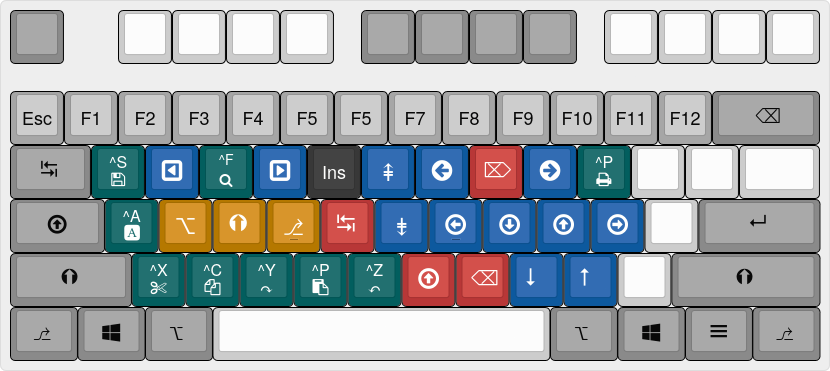
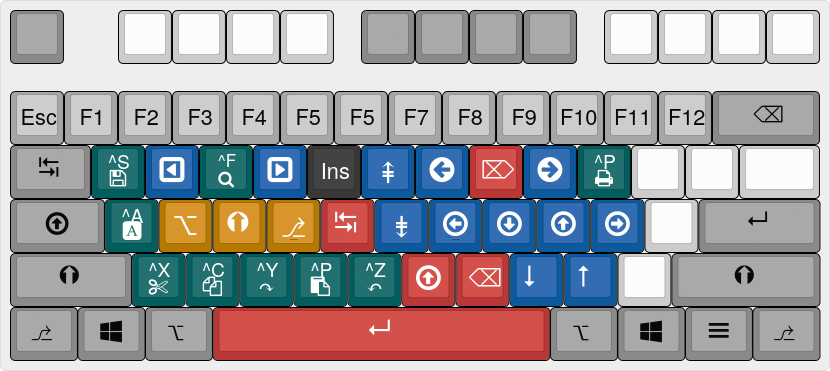
Extend layer: Map Enter to spacebar

diff --git a/README.md b/README.md
@@ -84,7 +84,7 @@ The image below showcases the Extend layer for ANSI 101/104-key keyboards.
 | :--- | :--- | :--- |
 | **Colour** | **Type** | **Comments** |
 | ![Extend layer navigation keys](Assets/Images/Keyboard_Layers/Extend_Layer_Navigation.png) | Navigation | Includes: <kbd>Back</kbd> <kbd>Forward</kbd> <kbd>PgUp</kbd> <kbd>PgDn</kbd> <kbd>Home</kbd> <kbd>End</kbd> <kbd>Left</kbd> <kbd>Down</kbd> <kbd>Up</kbd> <kbd>Right</kbd> <kbd>Mouse Wheel Scroll Down</kbd> <kbd>Mouse Wheel Scroll Up</kbd> |
-| ![Extend layer text manipulation keys](Assets/Images/Keyboard_Layers/Extend_Layer_Text_Manipulation.png) | Text Editing | Includes: <kbd>Delete</kbd> <kbd>Tab</kbd> <kbd>Caps Lock</kbd> <kbd>Backspace</kbd> |
+| ![Extend layer text manipulation keys](Assets/Images/Keyboard_Layers/Extend_Layer_Text_Manipulation.png) | Text Editing | Includes: <kbd>Delete</kbd> <kbd>Tab</kbd> <kbd>Caps Lock</kbd> <kbd>Backspace</kbd> <kbd>Enter</kbd> |
 | ![Extend layer text modifier keys](Assets/Images/Keyboard_Layers/Extend_Layer_Modifiers.png) | Modifiers | Includes: <kbd>Alt</kbd> <kbd>Shift</kbd> <kbd>Ctrl</kbd> |
 | ![Extend layer Ctrl shortcuts](Assets/Images/Keyboard_Layers/Extend_Layer_Ctrl_Shortcuts.png) | Ctrl Shortcuts | Includes: <kbd>Ctrl+S</kbd> save <kbd>Ctrl+F</kbd> find <kbd>Ctrl+P</kbd> print <kbd>Ctrl+A</kbd> select all <kbd>Ctrl+X</kbd> cut <kbd>Ctrl+C</kbd> copy <kbd>Ctrl+V</kbd> paste <kbd>Ctrl+Z</kbd> undo <kbd>Ctrl+Y</kbd> redo |
 | ![Extend layer function keys](Assets/Images/Keyboard_Layers/Extend_Layer_Function.png) | F* Keys | Keys from the function row |
